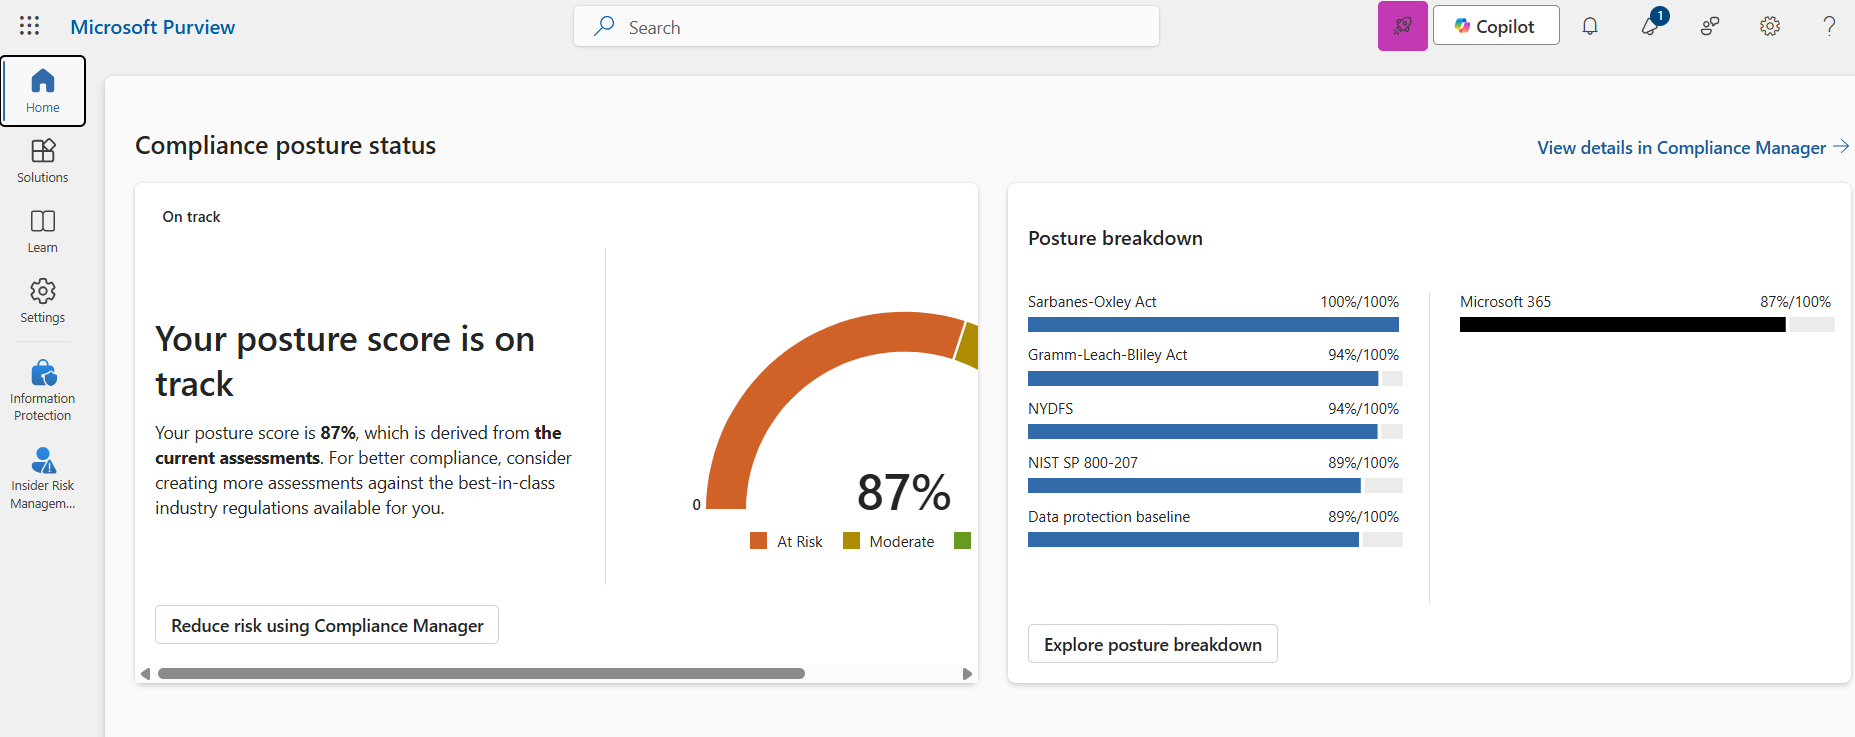
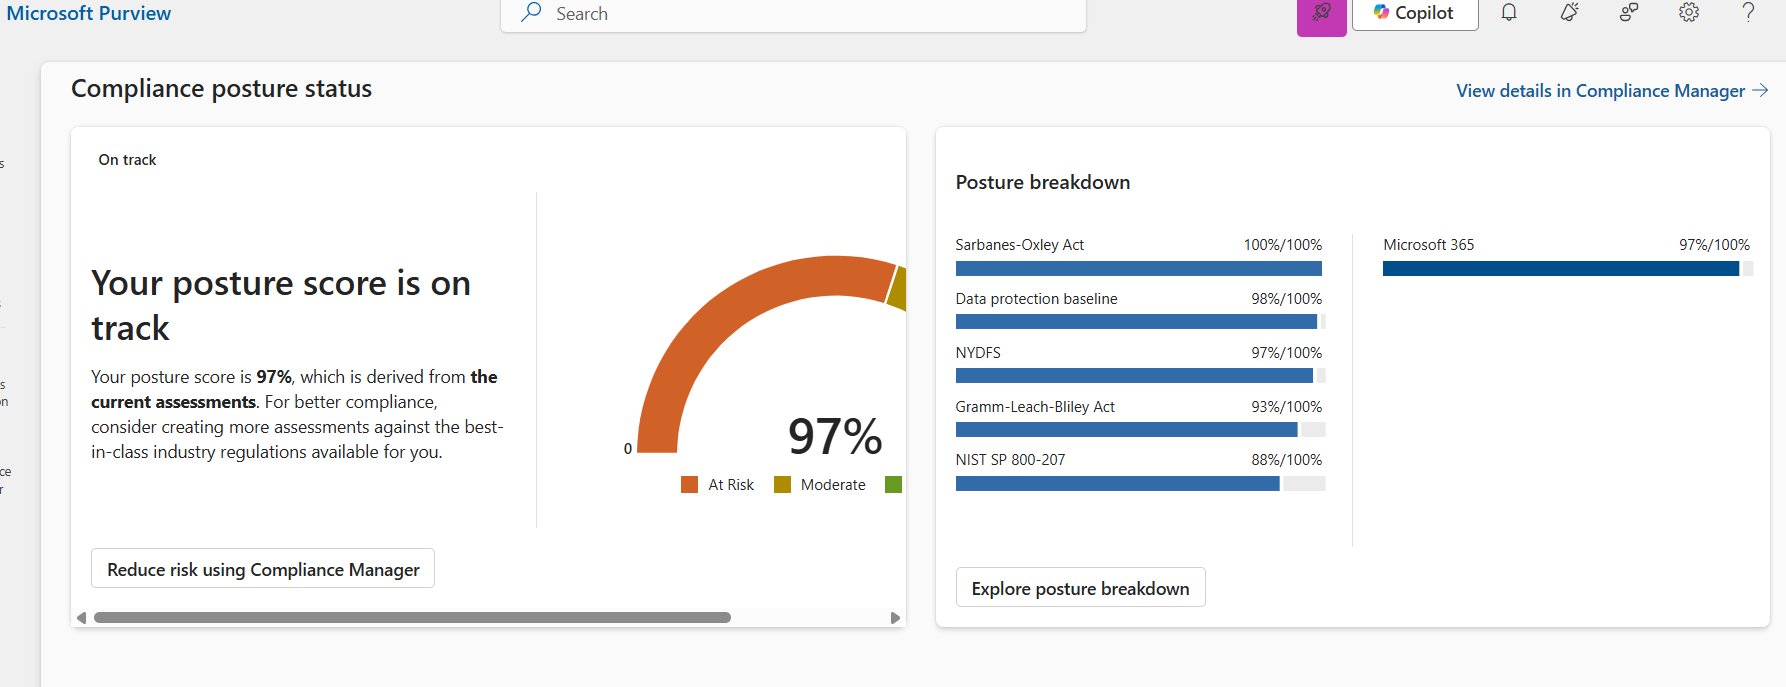
README update

diff --git a/README.md b/README.md
@@ -85,8 +85,9 @@ Continuing from the same incident, this view captures my analysis using the Time
 This screenshot reflects my implementation and continuous enforcement of Conditional Access policies in Microsoft Entra ID, achieving an 80.21% identity security score. Policies enforced include MFA for privileged roles, blocking legacy authentication, and device-based access restrictions. I aligned most configurations with Microsoft’s Zero Trust recommendations while testing custom policies in Report-Only mode for iterative evaluation. This demonstrates my capability to operationalize adaptive access control using identity posture metrics to assess effectiveness and gaps.| ![Screenshot of Microsoft Entra ID Conditional Access Policies configuration](./assets/Conditional_access_policies.png)<br>![Screenshot showing Microsoft Entra ID Identity Security Score of 80.21%](./assets/Identity_score.png)  |
 |**🖥 Device monitoring in Endpoint Central**
  This view illustrates my endpoint vulnerability and patch compliance monitoring across a hybrid fleet using Endpoint Central, integrated with Microsoft Entra ID for device identity governance. It shows how I maintain visibility into OS versions, patch levels, critical vulnerabilities, and compliance status across remote and on-prem devices. My configuration supports automated patch deployment, threat detection, and device health tracking—forming a foundational layer of defense for endpoint hardening.                                                        | ![Screenshot of Endpoint Central device monitoring dashboard showing vulnerability status and patch compliance](./assets/Device_monitoring.png)|
-|**Microsoft Purview showing a compliance score of (**87%**)**
-This screenshot shows a Microsoft Purview compliance score of 87%, reflecting my enforcement of regulatory and data governance policies across Microsoft 365 and hybrid resources. I implemented controls aligned with frameworks like SOX, NYDFS, GLBA, PCI-DSS, NIST, CIS, ISO 27001, and Microsoft Security Benchmarks, using Purview to monitor and remediate gaps.|![Screenshot of Microsoft Purview Compliance Manager showing compliance score of 80.21%](./assets/Compliance_score.png) |
+|**Microsoft Purview Compliance Score (**97%**)**  
+This updated screenshot reflects a 97% compliance score in Microsoft Purview Compliance Manager, showcasing my proactive enforcement of security, privacy, and regulatory controls across Microsoft 365 and hybrid cloud environments. I aligned policies and technical configurations with key frameworks including SOX, NYDFS, GLBA, NIST, PCI-DSS, CIS Controls, ISO 27001, and Microsoft’s internal security benchmarks. This score reflects my hands-on work in implementing conditional access, data loss prevention, secure device configurations, auditing policies, and user risk controls — all tracked and measured through Purview’s continuous assessments.   | ![Screenshot of Microsoft Purview Compliance Manager showing compliance score of 97%](./assets/Compliance_score.png) |
+
 
 > All screenshots are real, redacted, and timestamped. No identifying or sensitive data is shown.
 
